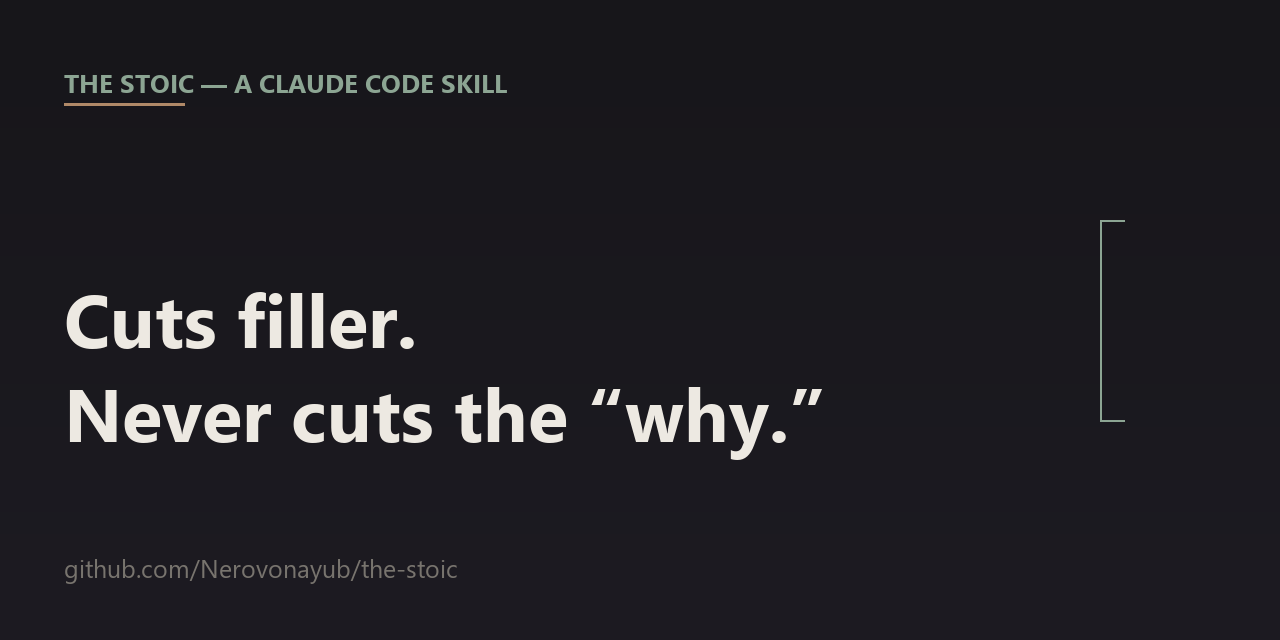
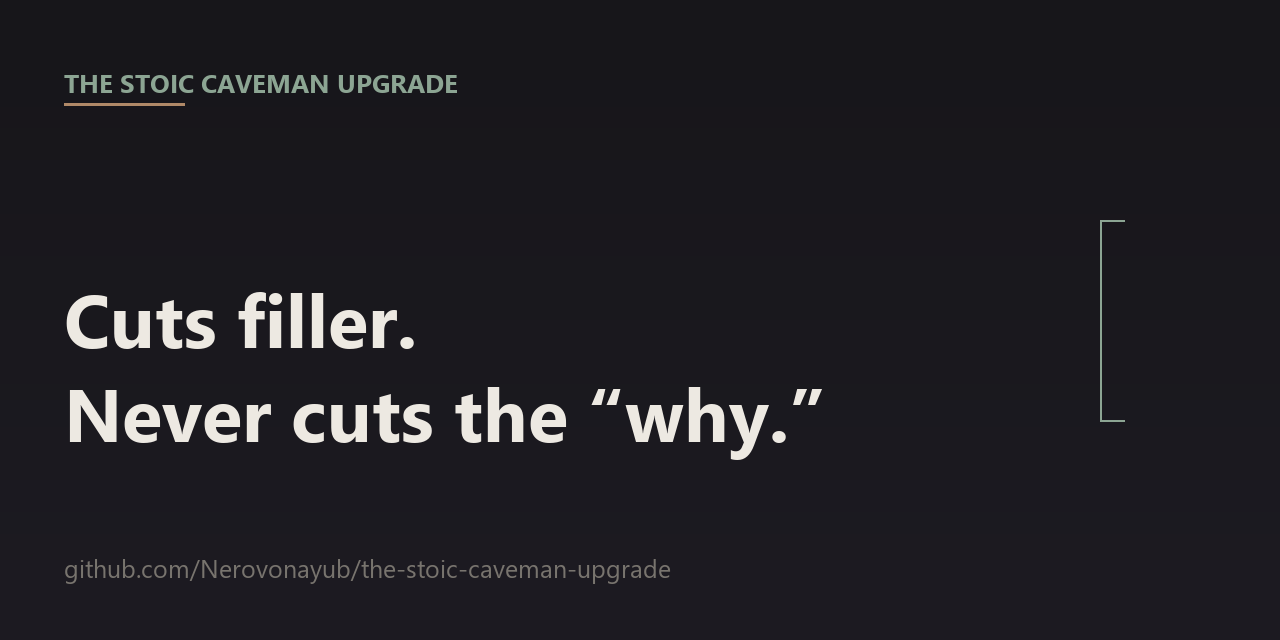
Rename to The Stoic Caveman Upgrade, add USAGE.md
Full project name now consistent everywhere -- repo slug, README,
SKILL.md, description, social preview image. Skill trigger stays
short ("stoic"/"go stoic") since that's what people actually type;
the full name is branding, not the command.

Added USAGE.md -- a plain, human-facing command reference (what to
type, what changes per level, what always stays fully explained
regardless of level/AutoMode), separate from SKILL.md which is
written for the agent, not for someone skimming to learn the commands.

Changed region(s): [[0.1562, 0.0938, 0.4062, 0.1562], [0.375, 0.875, 0.5312, 0.9062]]

diff --git a/USAGE.md b/USAGE.md
@@ -1,0 +1,71 @@
+# Usage
+
+`SKILL.md` is written for the agent, not for a human skimming it — this doc is the plain version:
+what to actually type, and what changes when you do.
+
+## Turning it on
+
+Say any of these in a Claude Code session, once installed:
+
+> `stoic mode` · `go stoic` · `cut the filler` · `fewer tokens` · `talk tight` · `compress your
+> output` · `/stoic`
+
+It stays on for the rest of the session. Turn it off with `stop stoic`, `normal mode`, or `full
+explanations again`.
+
+## Picking a level
+
+Say the level name with the trigger, or on its own once stoic mode is already active:
+
+> `stoic lite` (default) · `stoic full` · `stoic ultra` · or just `lite` / `full` / `ultra`
+
+**What actually changes**, in plain terms:
+
+| Level | You'll notice... |
+|-------|-------------------|
+| `lite` | Shorter replies — no "happy to help!", no restating what you already saw, no hedging. Still full sentences. |
+| `full` | Fragments instead of full sentences. Articles ("the", "a") start disappearing where the meaning survives without them. |
+| `ultra` | One fact per line. Terse enough that it reads like notes, not prose. |
+
+Code, commands, error messages, file paths, and numbers are **never** shortened or abbreviated —
+at any level. That doesn't change.
+
+## AutoMode — let it decide for you
+
+If you don't want to think about levels or remember to turn it on:
+
+> `automode on`
+
+Now Claude decides per-reply whether to go terse and which level fits, based on how the
+conversation is actually going (repetitive tool-heavy exchanges, you saying "just do it," etc.).
+Turn it off completely with:
+
+> `automode off`
+
+**Tune how eager it is** (only matters while AutoMode is on):
+
+> `automode conservative` — waits for a strong signal before going terse
+> `automode balanced` — the default, engages on one clear signal
+> `automode aggressive` — goes terse at the first sign of a repetitive exchange
+
+## What you'll always still get, no matter the level or AutoMode setting
+
+This is the actual point of the skill, not a footnote:
+
+- **Before any real action** (a command, a file edit, a tool call) — one full plain sentence
+  explaining what's about to happen and why. Never a fragment, never skipped.
+- **Security warnings and anything irreversible** — full explanation, every time.
+- **If you say "wait, what?" or seem confused** — that one reply drops back to full plain
+  language automatically, no need to say "normal mode" first.
+- **If you ask "explain that"** — same, just for the one thing you asked about.
+
+## Quick reference
+
+```
+stoic mode / go stoic / /stoic        → turn on (lite)
+stoic full / stoic ultra              → turn on at a specific level
+stop stoic / normal mode              → turn off
+automode on                           → let it decide when + how much
+automode conservative|balanced|aggressive → tune how eager AutoMode is
+automode off                          → stop deciding on its own
+```

diff --git a/README.md b/README.md
@@ -1,4 +1,4 @@
-# The Stoic
+# The Stoic Caveman Upgrade
 
 **A Claude Code skill that cuts output-token filler — and never cuts the "why."**
 
@@ -7,7 +7,10 @@ explanation of what's about to happen before a command or file edit runs. Code, 
 errors, and file paths stay byte-exact at every level.
 
 Quiet and precise instead of loud and clipped — a deliberate upgrade on the "caveman" style of
-compression skill, not a clone of one.
+compression skill, not a clone of one. The skill itself is invoked as `stoic` — "The Stoic
+Caveman Upgrade" is the project's full name, not the command you type. **New here? See
+[`USAGE.md`](USAGE.md) for exactly what to type and what changes** — this README covers the
+design, that doc covers the commands.
 
 ## Why this exists
 

diff --git a/SKILL.md b/SKILL.md
@@ -13,9 +13,10 @@ description: >
   explanations again".
 ---
 
-# The Stoic
+# The Stoic Caveman Upgrade
 
-A caveman upgrade: shrinks the *prose* around an answer — narration, hedging, pleasantries,
+Invoked as `stoic` (see trigger phrases below) — "The Stoic Caveman Upgrade" is the project's
+full name, kept short in actual use. Shrinks the *prose* around an answer — narration, hedging, pleasantries,
 restatement — without touching technical content and without silently dropping the step-by-step
 explanations a careful user relies on before any action runs. Quiet and precise instead of loud
 and clipped.
